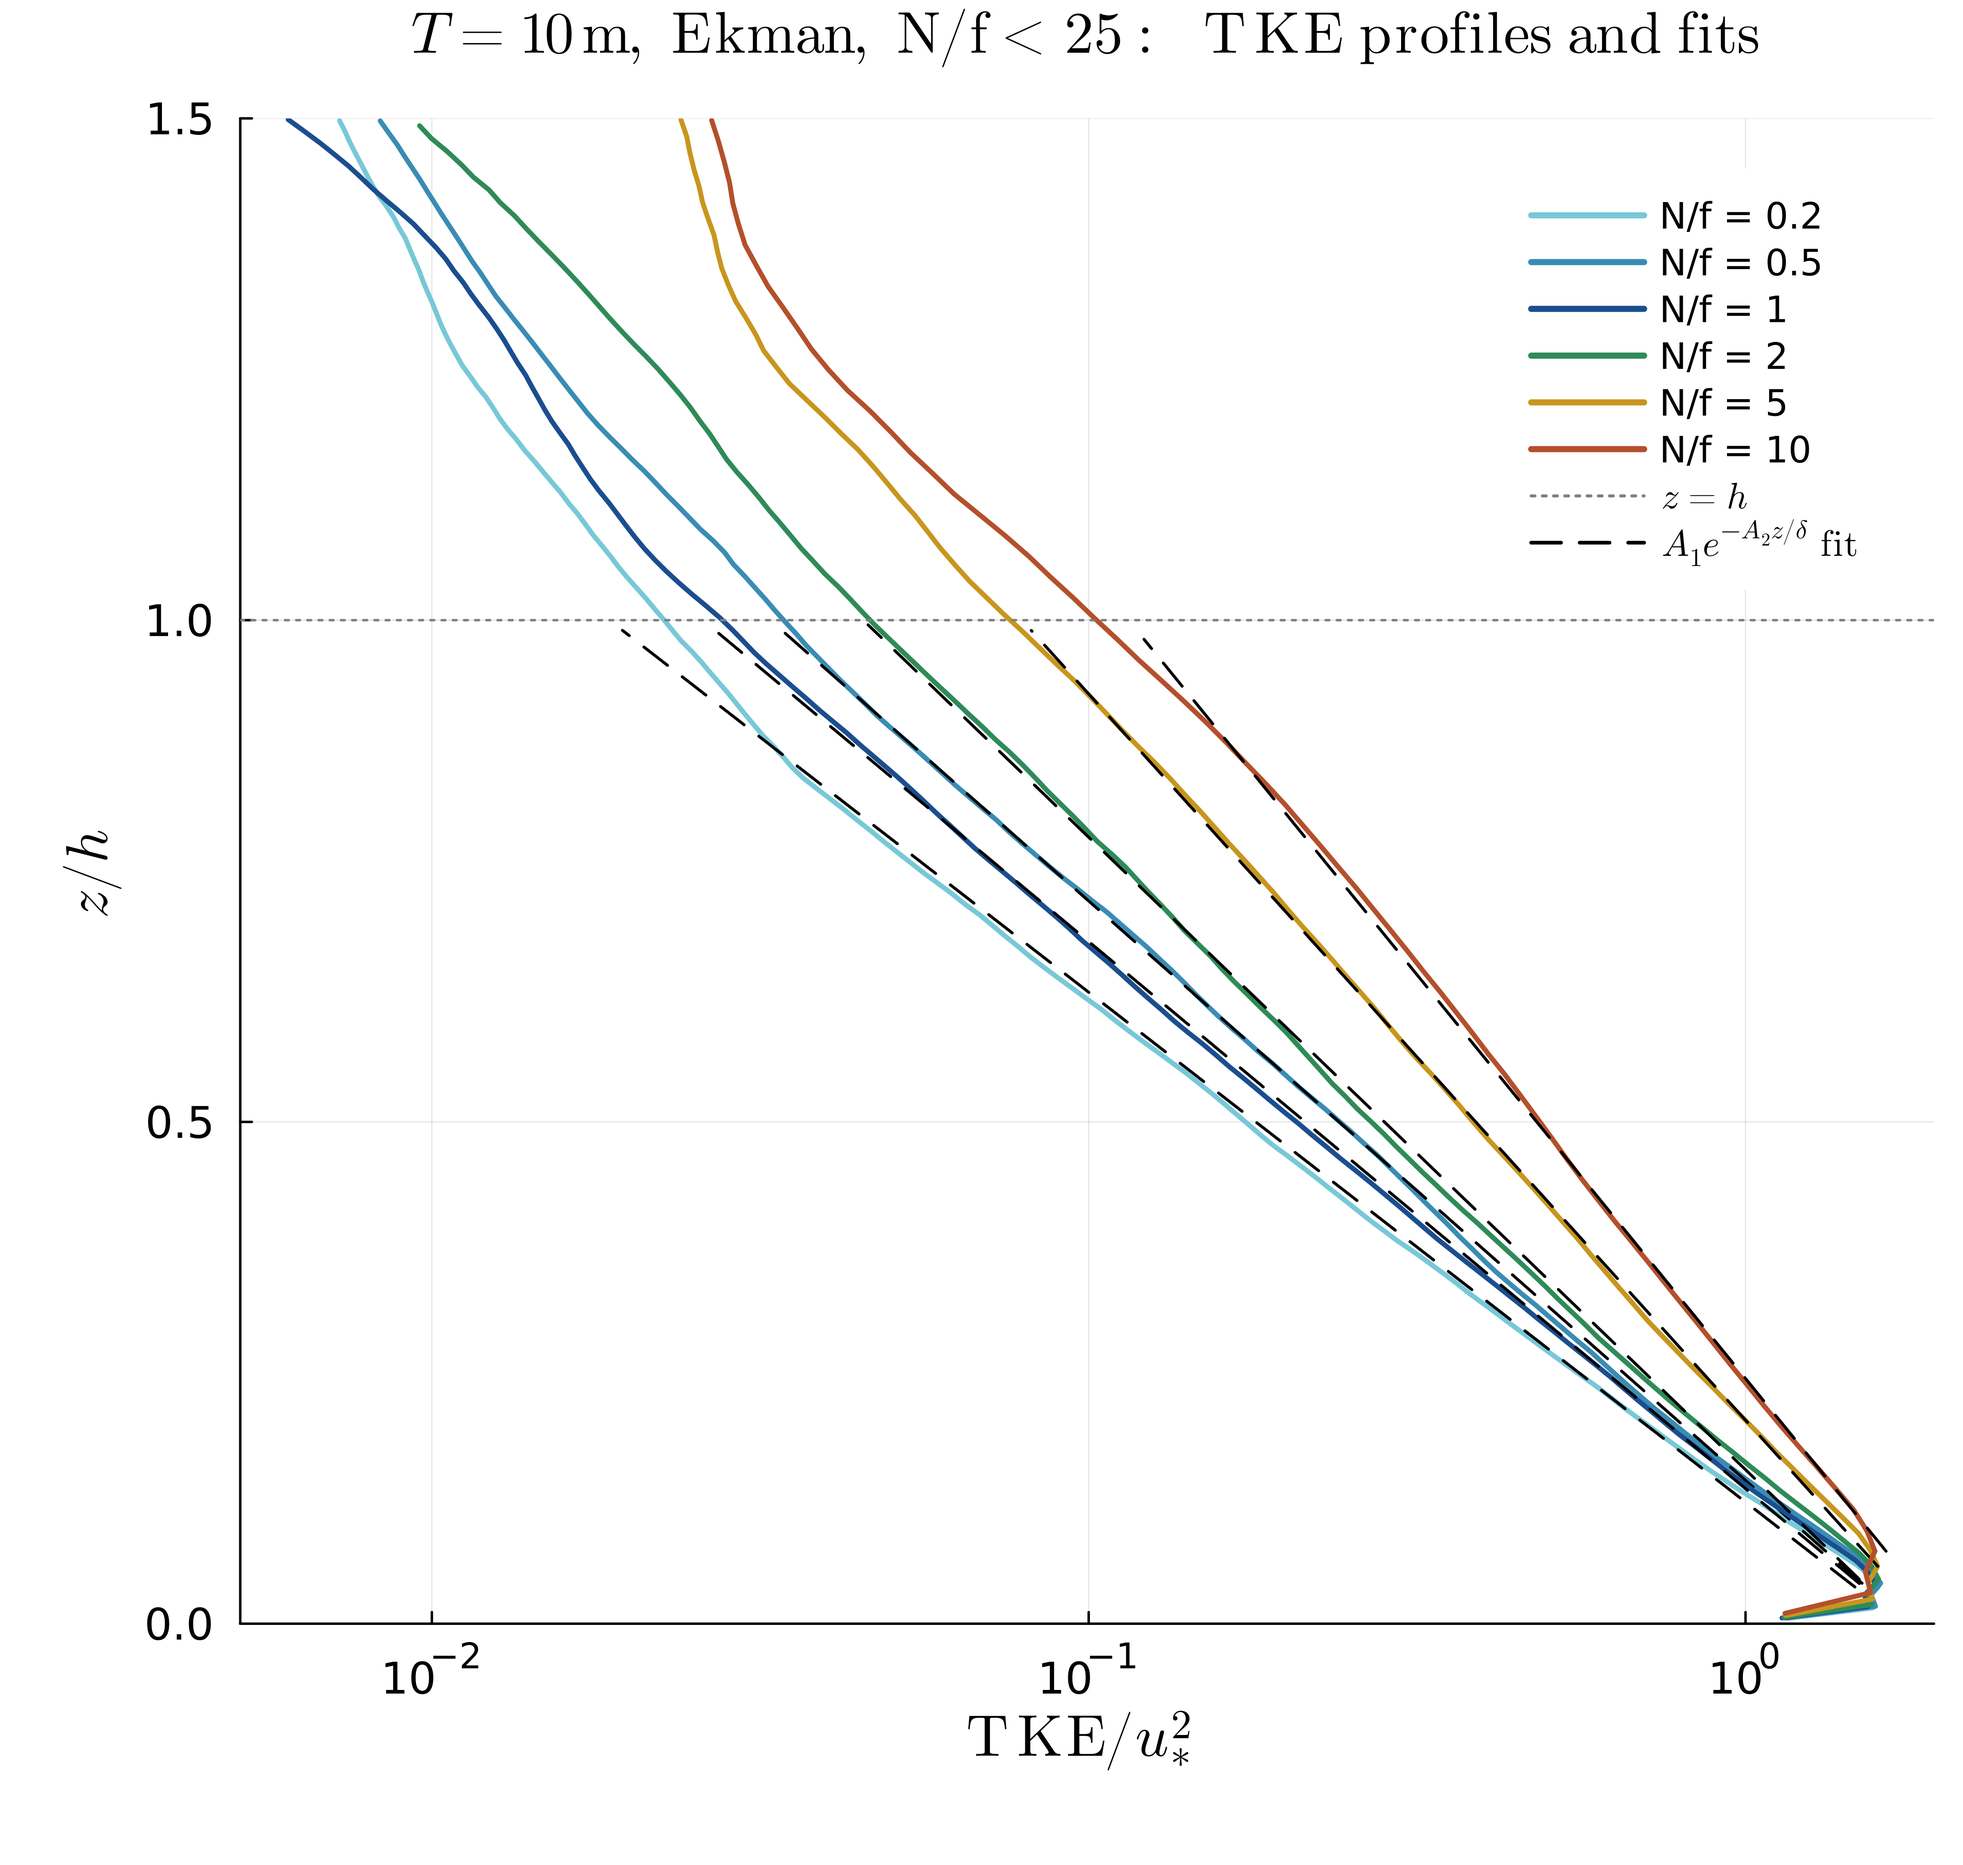
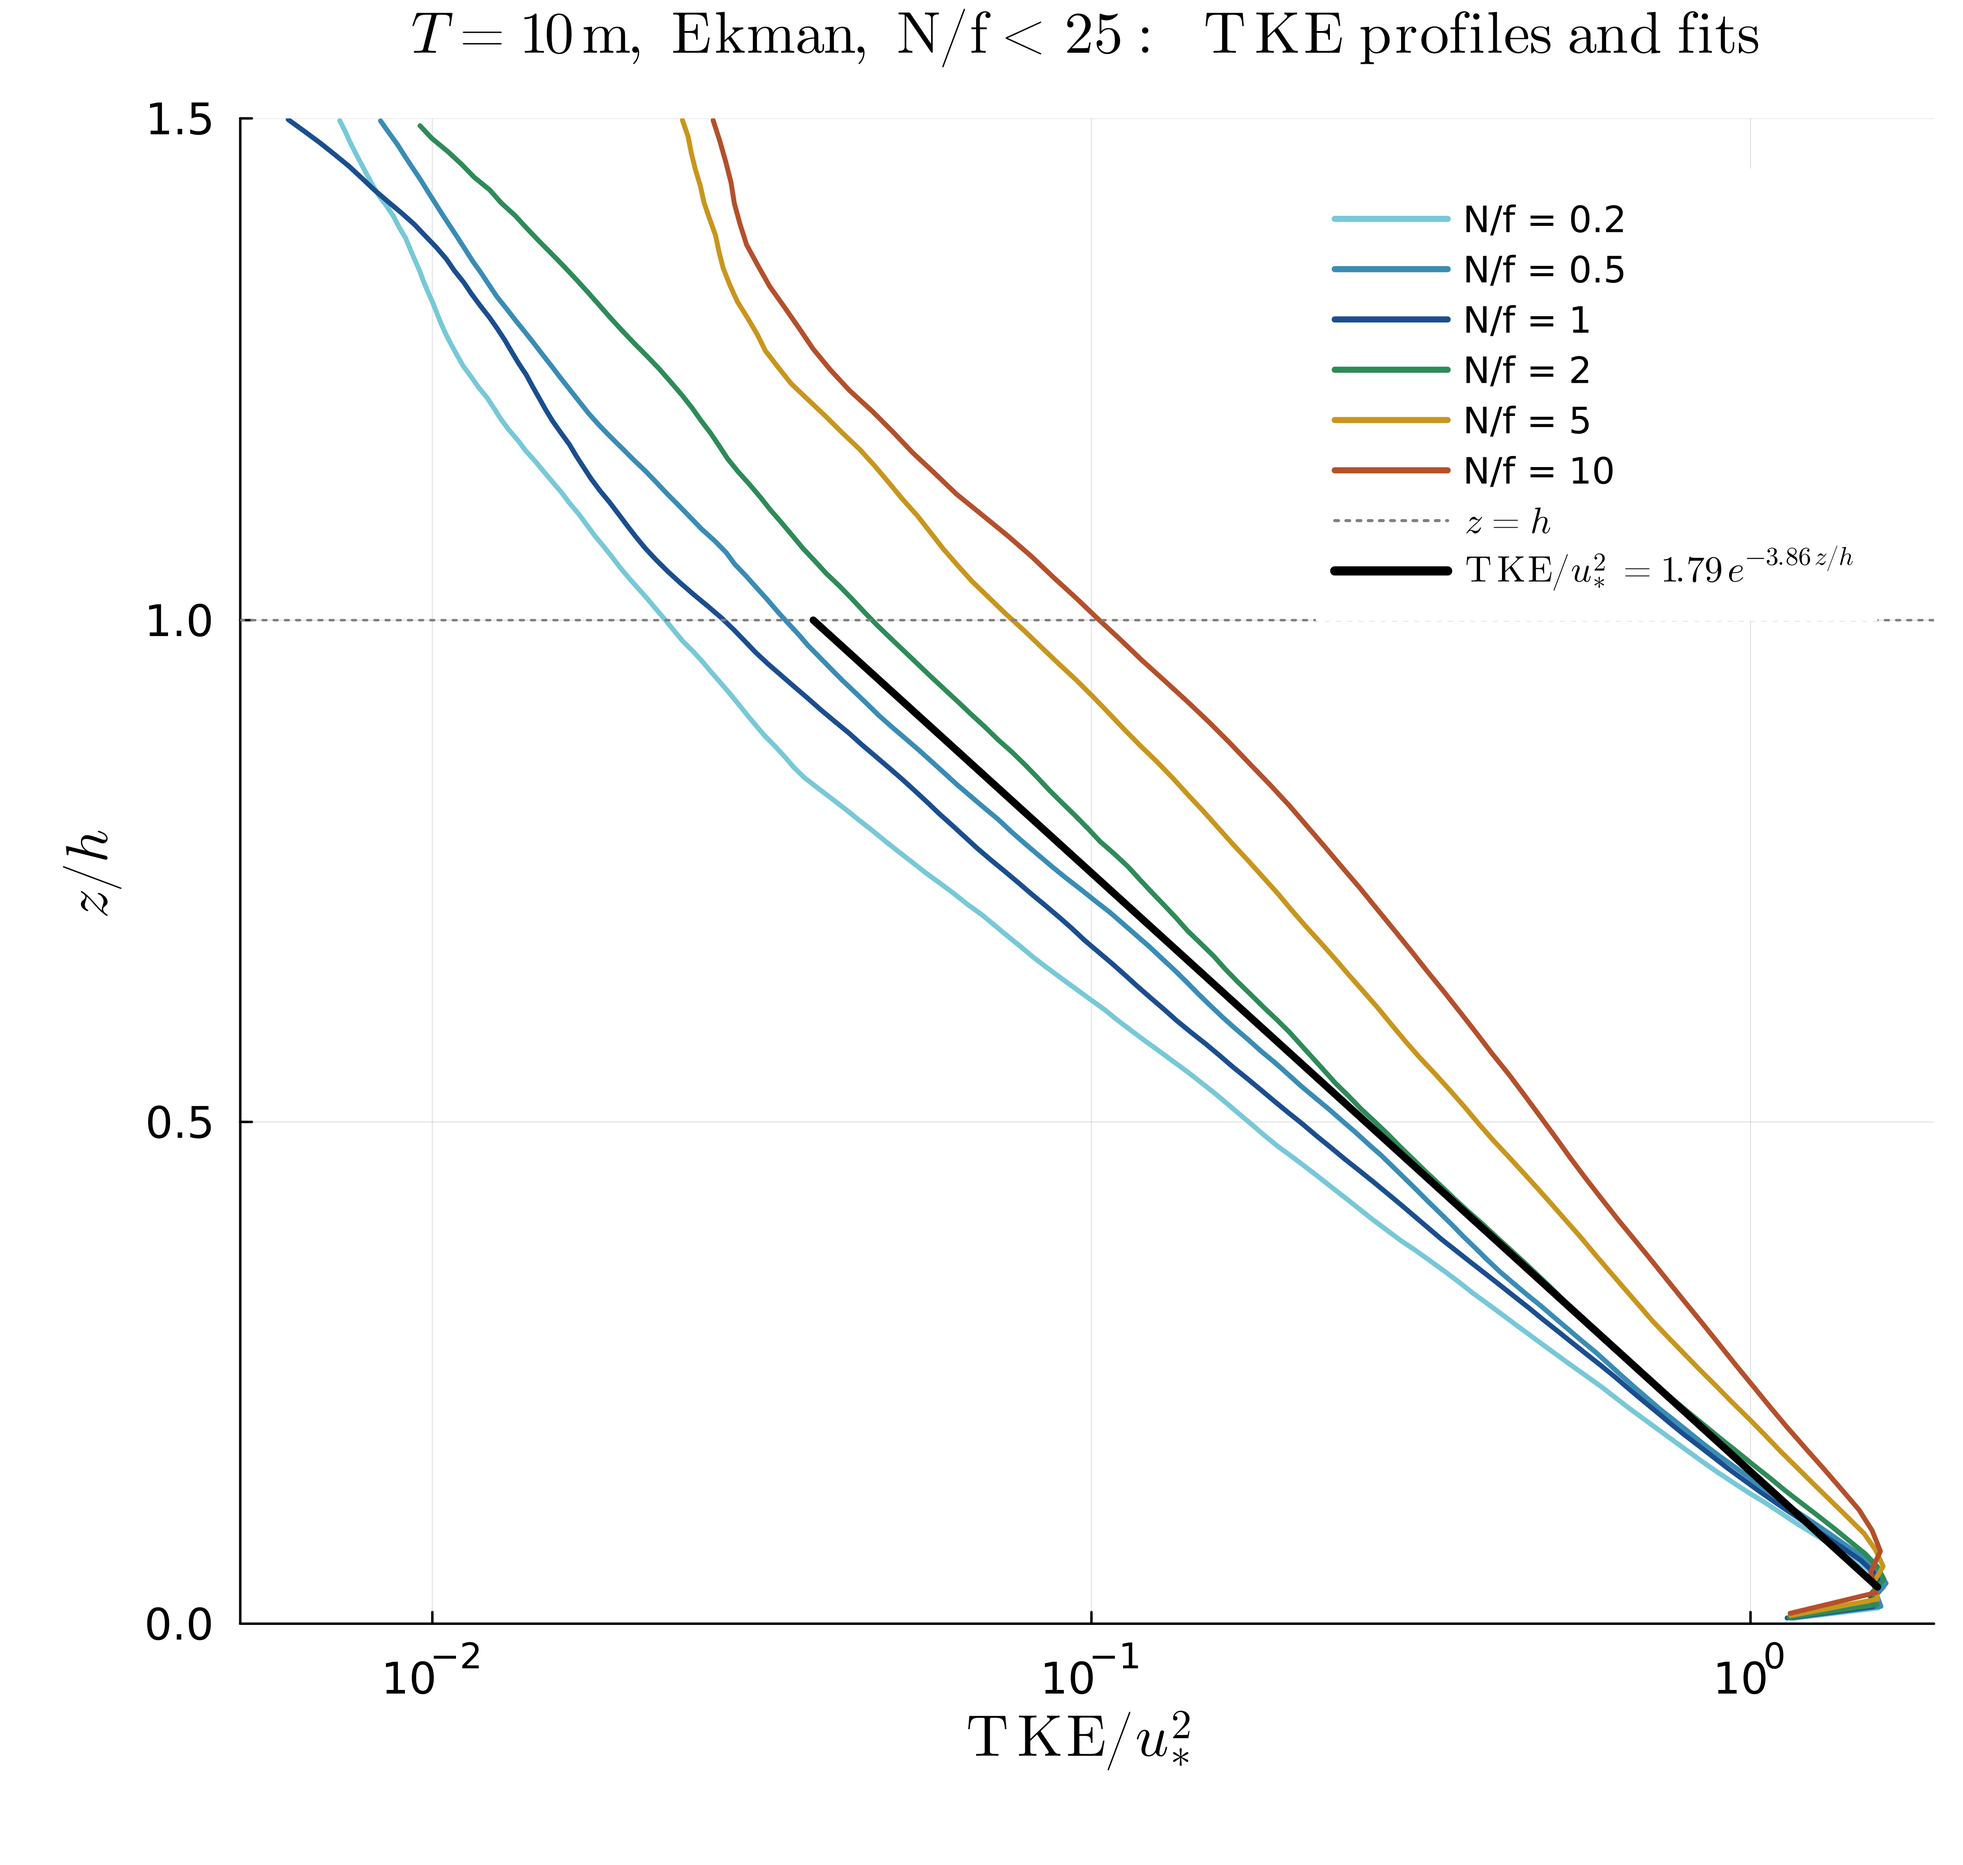
actual final tke plots

diff --git a/Combined/README.md b/Combined/README.md
@@ -1013,21 +1013,34 @@ further.
 `h/δ` at 2.62 and 0.66, so `A₂` alone is not comparable between flows; `A₂h/δ`
 is, and on that measure both flows decay by about `e^(−3.4)` over one `h`.
 
-### The fits drawn — `plot/plot_tke_fits_T10.jl`
+### One fit per flow — `plot/plot_tke_fits_T10.jl`
 
-`figures/tke_fits_stokes_T10.png` and `figures/tke_fits_ekman_lowr_T10.png`,
-one figure per flow (split 2026-10-09), `z/h` up and `TKE/u_*²` on a log axis,
-each case's profile solid and its stage-2 fit (`A₁e^(−A₂z/δ)`, peak to `z = h`)
-dashed over the range it was fitted. Stokes is all eight `r`, matching
-`KTstar_vs_Ri_stokes_T10.png`; Ekman is `r` < 25, matching
-`KTstar_vs_Ri_zscan_ekman_lowr_T10.png`. Same fitting code as stage 2, so the
-constants are the ones in the table above (log in `logs/plot_tke_fits_T10.log`).
+`figures/tke_fits_stokes_T10.png` (all eight `r`, the set of
+`KTstar_vs_Ri_stokes_T10.png`) and `figures/tke_fits_ekman_lowr_T10.png`
+(`r` < 25, the set of `KTstar_vs_Ri_zscan_ekman_lowr_T10.png`). `z/h` up,
+`TKE/u_*²` on a log axis, each case's profile in its colour, and **one** black
+line per flow: every case's points from its TKE peak to `z = h` pooled into a
+single least-squares fit of `log(TKE/u_*²)` against `z/h`.
 
-What the drawn fits show that the table does not: the Ekman profiles really are
-straight lines on this axis up to `z ≈ h` (rms 1.6–5.4 % for `r` < 25), they just
-have different slopes. The Stokes ones collapse but are **not** quite
-exponential — they steepen in the bottom ~0.2 h and bend over again below `h`,
-which is where their 13–19 % rms comes from.
+| flow | pooled fit | rms | per-case `a`, `b` |
+|---|---|---|---|
+| Stokes, all `r` | `TKE/u_*² = 3.42 e^(−3.46 z/h)` | 17.6 % | 3.29–3.55, 2.94–3.77 |
+| Ekman, `r` < 25 | `TKE/u_*² = 1.79 e^(−3.86 z/h)` | 35.9 % | 1.73–2.01, 2.86–4.53 |
+
+Written in `z/h`, so `b` is the stage-2 `A₂h/δ` and `a` is `A₁/u_*²` — the
+per-case numbers are the stage-2 table's (log: `logs/plot_tke_fits_T10.log`).
+
+**Stokes has one profile**; the pooled rms (17.6 %) is barely above the per-case
+13–19 %, so pooling costs almost nothing. What remains is shape: the profiles
+steepen in the bottom ~0.2 h and roll off just below `h`, so the single line is
+worst exactly at `z = h`. **Ekman does not** — each case is a clean exponential
+(rms ≤ 5.4 %) but the slope runs 4.53 → 2.86 with `r`, so the pooled line is a
+compromise through a fan and its 35.9 % is that spread. A single `TKE(z/h)` for
+the rotating column would need `b` to depend on `r`.
+
+The pooled fit weights each case by its number of grid points in range, so finer
+or deeper cases count for more. The legend shows the equation only; the rms is in
+the log, not on the figure (removed 2026-10-09 on request).
 
 ### Stage 3 — the δ model for K_T
 

diff --git a/Combined/HANDOVER.md b/Combined/HANDOVER.md
@@ -172,9 +172,10 @@ Written 2026-10-08: THEORY.md, the theoretical argument with no simulation
 detail. It surfaced an unlisted gap: to make K_T a function of h alone, S at
 the layer top needs a model in h; only S ~ N^p exists. Now on the open list.
 
-Built 2026-10-09: plot_tke_fits_T10.jl -> figures/tke_fits_{stokes,ekman_lowr}_T10.png, TKE
-profiles with the exponential fits drawn (Stokes all r, Ekman r < 25). Ekman is
-cleanly exponential to h; Stokes collapses but curves, worst right at z = h.
+Built 2026-10-09: plot_tke_fits_T10.jl -> figures/tke_fits_{stokes,ekman_lowr}_T10.png,
+one pooled exponential per flow in z/h, equation (no rms) on the figure. Stokes
+TKE/u_*^2 = 3.42 e^(-3.46 z/h), 17.6 %; Ekman (r < 25) 1.79 e^(-3.86 z/h),
+35.9 % — Ekman's decay rate depends on r, so its single line is a compromise.
 
 NEXT STEP: not chosen. The open list at the end of LOG.txt is the menu; the
 strongest item is a second pycnocline depth (T = 15 or 20, which already exist
